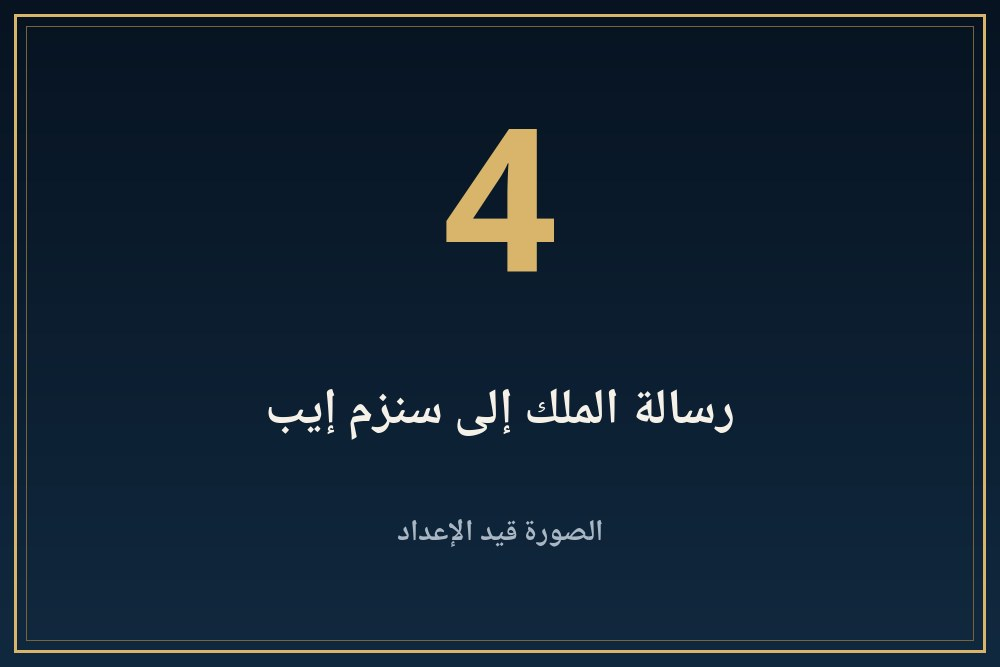
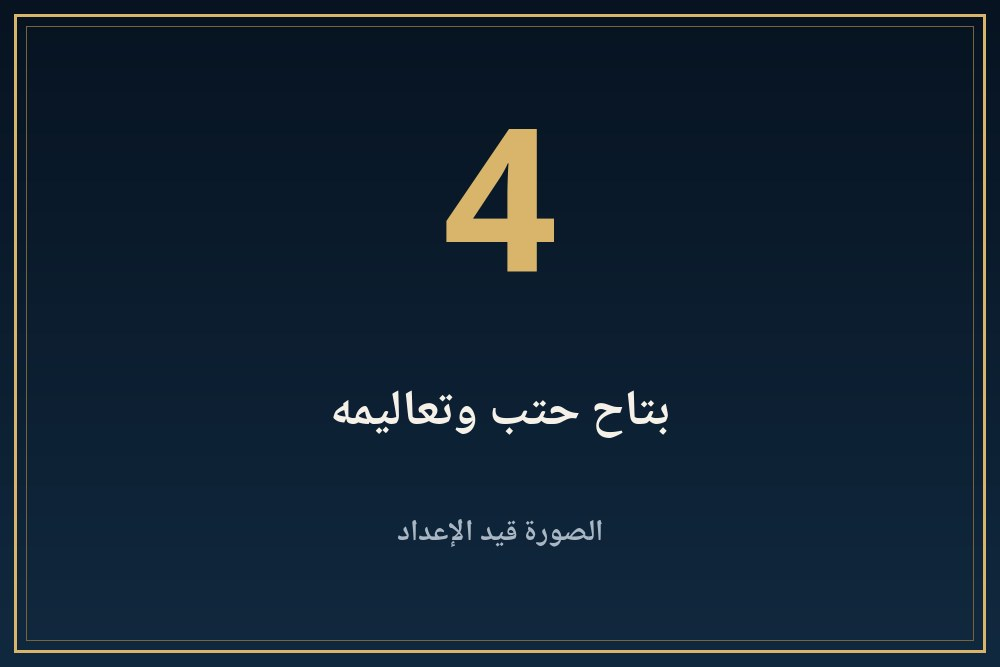
King 029: rebuilt from updated content (placeholders, audio pending)

Changed region(s): [[0.248, 0.5697, 0.744, 0.6597]]

diff --git a/kings/029-gd-ka-ra-esyzy/index.html b/kings/029-gd-ka-ra-esyzy/index.html
@@ -324,7 +324,7 @@ html[dir=ltr] #panav.open,#pash[dir=ltr] #panav.open{border-right:0!important;bo
 <div class="row"><span class="bdg v">موثّق</span><span>مذكور في مصدر مرقّم يمكن فتحه من قسم المراجع.</span></div>
 <div class="row"><span class="bdg d">محل خلاف</span><span>الصفحة نفسها تذكر أن الباحثين أو المصادر مختلفون فيه.</span></div>
 <div class="row"><span class="bdg u">لم يُتحقق منه</span><span>الصفحة تذكر أنه من مصدر واحد ولم يُتحقق منه في مصدر ثانٍ.</span></div></div>
-<div class="band" aria-hidden="true"></div><details class="acc k1" id="s1"><summary><img class="bnr" src="banners/b01.jpg?v=1" alt="" width="1000" height="667"><span class="n">1</span><span class="t">من هو؟</span><span class="ch"></span></summary><div class="body"><button class="lbtn" type="button" disabled aria-disabled="true" style="opacity:.55;cursor:default"><svg viewBox="0 0 24 24" fill="currentColor" aria-hidden="true"><path d="M7 4.5v15a1 1 0 001.5.86l12-7.5a1 1 0 000-1.72l-12-7.5A1 1 0 007 4.5z"/></svg><span>التعليق الصوتي قريبًا</span></button><p><span class="bdg v">موثّق</span> يقول سليم حسن (ج1 ص263-265) إن عهده «حافل».<sup><a href="#r1">[1]</a></sup></p></div></details><details class="acc k2" id="s2"><summary><img class="bnr" src="banners/b02.jpg?v=1" alt="" loading="lazy" width="1000" height="667"><span class="n">2</span><span class="t">بعثة ني عنخ خنتي خت</span><span class="ch"></span></summary><div class="body"><button class="lbtn" type="button" disabled aria-disabled="true" style="opacity:.55;cursor:default"><svg viewBox="0 0 24 24" fill="currentColor" aria-hidden="true"><path d="M7 4.5v15a1 1 0 001.5.86l12-7.5a1 1 0 000-1.72l-12-7.5A1 1 0 007 4.5z"/></svg><span>التعليق الصوتي قريبًا</span></button><p><span class="bdg v">موثّق</span> يذكر سليم حسن (ص263-265) بعثة ني عنخ خنتي خت في عهده.<sup><a href="#r1">[1]</a></sup></p></div></details><details class="acc k3" id="s3"><summary><img class="bnr" src="banners/b03.jpg?v=1" alt="" loading="lazy" width="1000" height="667"><span class="n">3</span><span class="t">بتاح حتب وتعاليمه</span><span class="ch"></span></summary><div class="body"><button class="lbtn" type="button" disabled aria-disabled="true" style="opacity:.55;cursor:default"><svg viewBox="0 0 24 24" fill="currentColor" aria-hidden="true"><path d="M7 4.5v15a1 1 0 001.5.86l12-7.5a1 1 0 000-1.72l-12-7.5A1 1 0 007 4.5z"/></svg><span>التعليق الصوتي قريبًا</span></button><p><span class="bdg v">موثّق</span> يقول سليم حسن (ص264) إن بتاح حتب كان مربي الملك وصاحب التعاليم المعروفة، ويترجم بدايتها.<sup><a href="#r1">[1]</a></sup></p></div></details><details class="acc k4" id="s4"><summary><img class="bnr" src="banners/b04.jpg?v=1" alt="" loading="lazy" width="1000" height="667"><span class="n">4</span><span class="t">رسالة الملك إلى سنزم إيب</span><span class="ch"></span></summary><div class="body"><button class="lbtn" type="button" disabled aria-disabled="true" style="opacity:.55;cursor:default"><svg viewBox="0 0 24 24" fill="currentColor" aria-hidden="true"><path d="M7 4.5v15a1 1 0 001.5.86l12-7.5a1 1 0 000-1.72l-12-7.5A1 1 0 007 4.5z"/></svg><span>التعليق الصوتي قريبًا</span></button><p><span class="bdg v">موثّق</span> يذكر سليم حسن (ص265) خطابا بخط الملك إلى سنزم إيب عن بحيرة الألف ذراع، وفيه عبارة «أدخلت الفرح على قلبي» مع تورية على اسمه.<sup><a href="#r1">[1]</a></sup></p></div></details><details class="acc k1" id="s5"><summary><img class="bnr" src="banners/b05.jpg?v=1" alt="" loading="lazy" width="1000" height="667"><span class="n">5</span><span class="t">ما لا نعرفه</span><span class="ch"></span></summary><div class="body"><button class="lbtn" type="button" disabled aria-disabled="true" style="opacity:.55;cursor:default"><svg viewBox="0 0 24 24" fill="currentColor" aria-hidden="true"><path d="M7 4.5v15a1 1 0 001.5.86l12-7.5a1 1 0 000-1.72l-12-7.5A1 1 0 007 4.5z"/></svg><span>التعليق الصوتي قريبًا</span></button><p><span class="bdg u">لم يُتحقق منه</span> لم نقرأ مدة حكمه ولا أبعاد هرمه ولا مصدرا مصريا ثانيا. وسنضيف ما نقرؤه.</p></div></details><details class="acc k4" id="refs"><summary><img class="bnr" src="banners/b06.jpg?v=1" alt="" loading="lazy" width="1000" height="667"><span class="n">6</span><span class="t">المراجع</span><span class="ch"></span></summary><div class="body"><button class="lbtn" type="button" disabled aria-disabled="true" style="opacity:.55;cursor:default"><svg viewBox="0 0 24 24" fill="currentColor" aria-hidden="true"><path d="M7 4.5v15a1 1 0 001.5.86l12-7.5a1 1 0 000-1.72l-12-7.5A1 1 0 007 4.5z"/></svg><span>التعليق الصوتي قريبًا</span></button><p><b>مصادر فتحتُ صفحاتها وقرأتها:</b></p><ol><li id="r1" dir="auto">سليم حسن، موسوعة مصر القديمة، ج1، الفصل 15: <a dir="ltr" style="display:inline-block;overflow-wrap:anywhere" href="https://archive.org/details/20201104_20201104_1559" rel="noopener" target="_blank">archive.org/details/20201104_20201104_1559</a></li></ol><div class="flag"><b>تنبيه:</b> عدد المصادر المصرية المفتوحة لهذه الصفحة واحد فقط. لا نضيف تفاصيل لم تثبت في مصدر فتحناه وقرأنا نصه، وحيث يختلف المصدران ننسب كل رأي لصاحبه.</div></div></details></article><aside class="abt" aria-label="عن هذه الصفحة"><h3>عن هذه الصفحة</h3><ul><li><b>المحتوى</b><span>جزء من موسوعة بر عنخ التعليمية. التواريخ والتفسيرات وفق المراجع المتاحة، وقد تختلف التفاصيل بين الدراسات.</span></li><li><b>الصور</b><span>صور هذه الصفحة أماكن حجز مؤقتة إلى أن تُضاف الصور الفنية.</span></li><li><b>الصوت</b><span>التعليق الصوتي قيد الإعداد.</span></li></ul></aside><a class="back" href="/kings/">← تصفح المزيد</a><a class="back" href="/">العودة إلى الرئيسية</a><dialog id="lb"><img alt=""><p></p><button type="button">إغلاق</button></dialog>
+<div class="band" aria-hidden="true"></div><details class="acc k1" id="s1"><summary><img class="bnr" src="banners/b01.jpg?v=1" alt="" width="1000" height="667"><span class="n">1</span><span class="t">من هو؟</span><span class="ch"></span></summary><div class="body"><button class="lbtn" type="button" disabled aria-disabled="true" style="opacity:.55;cursor:default"><svg viewBox="0 0 24 24" fill="currentColor" aria-hidden="true"><path d="M7 4.5v15a1 1 0 001.5.86l12-7.5a1 1 0 000-1.72l-12-7.5A1 1 0 007 4.5z"/></svg><span>التعليق الصوتي قريبًا</span></button><p><span class="bdg v">موثّق</span> يقول سليم حسن (ج1 ص263-265) إن عهده «حافل». ويضع جدول كتاب الميت (ص49) هرمه في جنوب سقارة، بعد أن كانت أهرام من قبله في أبو صير. ويستدرك كتاب الميت (ص34) أن وونيس «ربما كان ابن إسيسي».<sup><a href="#r1">[1]</a><a href="#r3">[3]</a></sup></p></div></details><details class="acc k2" id="s2"><summary><img class="bnr" src="banners/b02.jpg?v=1" alt="" loading="lazy" width="1000" height="667"><span class="n">2</span><span class="t">رسالة الملك إلى وزيره</span><span class="ch"></span></summary><div class="body"><button class="lbtn" type="button" disabled aria-disabled="true" style="opacity:.55;cursor:default"><svg viewBox="0 0 24 24" fill="currentColor" aria-hidden="true"><path d="M7 4.5v15a1 1 0 001.5.86l12-7.5a1 1 0 000-1.72l-12-7.5A1 1 0 007 4.5z"/></svg><span>التعليق الصوتي قريبًا</span></button><p><span class="bdg v">موثّق</span> يقول صالح (ص210) إن من أمتع رسائلهم رسالة كتبها الملك إسسي إلى وزيره شبس رع ردا على رسالة منه في أحد أعياده: «اطلعت جلالتي على الحديث الممتع الذي أرسلته إلى القصر... وسررت به لأنك تعرف كيف تتحدث بما يستحبه جلالتي...».<sup><a href="#r2">[2]</a></sup></p></div></details><details class="acc k3" id="s3"><summary><img class="bnr" src="banners/b03.jpg?v=1" alt="" loading="lazy" width="1000" height="667"><span class="n">3</span><span class="t">بحيرة الألف ذراع</span><span class="ch"></span></summary><div class="body"><button class="lbtn" type="button" disabled aria-disabled="true" style="opacity:.55;cursor:default"><svg viewBox="0 0 24 24" fill="currentColor" aria-hidden="true"><path d="M7 4.5v15a1 1 0 001.5.86l12-7.5a1 1 0 000-1.72l-12-7.5A1 1 0 007 4.5z"/></svg><span>التعليق الصوتي قريبًا</span></button><p><span class="bdg v">موثّق</span> يقول سليم حسن (ص265) إن خطابا بخط الملك إلى سنزم إيب عن بحيرة الألف ذراع فيه عبارة «أدخلت الفرح على قلبي» مع تورية على اسمه.<sup><a href="#r1">[1]</a></sup></p></div></details><details class="acc k4" id="s4"><summary><img class="bnr" src="banners/b04.jpg?v=1" alt="" loading="lazy" width="1000" height="667"><span class="n">4</span><span class="t">بتاح حتب وتعاليمه</span><span class="ch"></span></summary><div class="body"><button class="lbtn" type="button" disabled aria-disabled="true" style="opacity:.55;cursor:default"><svg viewBox="0 0 24 24" fill="currentColor" aria-hidden="true"><path d="M7 4.5v15a1 1 0 001.5.86l12-7.5a1 1 0 000-1.72l-12-7.5A1 1 0 007 4.5z"/></svg><span>التعليق الصوتي قريبًا</span></button><p><span class="bdg v">موثّق</span> يقول سليم حسن (ص264) إن بتاح حتب كان مربي الملك وصاحب التعاليم المعروفة، ويترجم بدايتها.<sup><a href="#r1">[1]</a></sup></p></div></details><details class="acc k1" id="s5"><summary><img class="bnr" src="banners/b05.jpg?v=1" alt="" loading="lazy" width="1000" height="667"><span class="n">5</span><span class="t">بعثة ني عنخ خنتي خت</span><span class="ch"></span></summary><div class="body"><button class="lbtn" type="button" disabled aria-disabled="true" style="opacity:.55;cursor:default"><svg viewBox="0 0 24 24" fill="currentColor" aria-hidden="true"><path d="M7 4.5v15a1 1 0 001.5.86l12-7.5a1 1 0 000-1.72l-12-7.5A1 1 0 007 4.5z"/></svg><span>التعليق الصوتي قريبًا</span></button><p><span class="bdg v">موثّق</span> يذكر سليم حسن (ص263-265) بعثة ني عنخ خنتي خت في عهده.<sup><a href="#r1">[1]</a></sup></p></div></details><details class="acc k2" id="s6"><summary><img class="bnr" src="banners/b06.jpg?v=1" alt="" loading="lazy" width="1000" height="667"><span class="n">6</span><span class="t">أرشيف أبو صير</span><span class="ch"></span></summary><div class="body"><button class="lbtn" type="button" disabled aria-disabled="true" style="opacity:.55;cursor:default"><svg viewBox="0 0 24 24" fill="currentColor" aria-hidden="true"><path d="M7 4.5v15a1 1 0 001.5.86l12-7.5a1 1 0 000-1.72l-12-7.5A1 1 0 007 4.5z"/></svg><span>التعليق الصوتي قريبًا</span></button><p><span class="bdg v">موثّق</span> يقول كتاب الميت (ص375-376) إن القطعة 117 من برديات أبو صير من سجلات المعبد الجنائزي في عهد جد كا رع إسيسي، وفيها جدول المناوبة لعيد سكر وسجلات توزيع الحبوب، وتغطي أكثر من عشر سنين. وتحمل عبارة «العام الثالث للإحصاء».<sup><a href="#r3">[3]</a></sup></p></div></details><details class="acc k3" id="s7"><summary><img class="bnr" src="banners/b07.jpg?v=1" alt="" loading="lazy" width="1000" height="667"><span class="n">7</span><span class="t">استمرار الإدارة</span><span class="ch"></span></summary><div class="body"><button class="lbtn" type="button" disabled aria-disabled="true" style="opacity:.55;cursor:default"><svg viewBox="0 0 24 24" fill="currentColor" aria-hidden="true"><path d="M7 4.5v15a1 1 0 001.5.86l12-7.5a1 1 0 000-1.72l-12-7.5A1 1 0 007 4.5z"/></svg><span>التعليق الصوتي قريبًا</span></button><p><span class="bdg v">موثّق</span> يقول كتاب الميت (ص34) إن الموظف كا جمني بدأ حياته في عهد إسيسي وتابعها في عهد ونيس وختمها محملا بالأوسمة في عهد تيتي، فلا انقطاع إداريا يدل على قطيعة بين الأسرتين.<sup><a href="#r3">[3]</a></sup></p></div></details><details class="acc k4" id="s8"><summary><img class="bnr" src="banners/b08.jpg?v=1" alt="" loading="lazy" width="1000" height="667"><span class="n">8</span><span class="t">هرمه</span><span class="ch"></span></summary><div class="body"><button class="lbtn" type="button" disabled aria-disabled="true" style="opacity:.55;cursor:default"><svg viewBox="0 0 24 24" fill="currentColor" aria-hidden="true"><path d="M7 4.5v15a1 1 0 001.5.86l12-7.5a1 1 0 000-1.72l-12-7.5A1 1 0 007 4.5z"/></svg><span>التعليق الصوتي قريبًا</span></button><p><span class="bdg v">موثّق</span> يقول كتاب الميت (ص49) إن هرمه في جنوب سقارة، وأعمدته من الجرانيت على شكل نخيل (ص61).<sup><a href="#r3">[3]</a></sup></p></div></details><details class="acc k1" id="s9"><summary><img class="bnr" src="banners/b09.jpg?v=1" alt="" loading="lazy" width="1000" height="667"><span class="n">9</span><span class="t">ما لا نعرفه</span><span class="ch"></span></summary><div class="body"><button class="lbtn" type="button" disabled aria-disabled="true" style="opacity:.55;cursor:default"><svg viewBox="0 0 24 24" fill="currentColor" aria-hidden="true"><path d="M7 4.5v15a1 1 0 001.5.86l12-7.5a1 1 0 000-1.72l-12-7.5A1 1 0 007 4.5z"/></svg><span>التعليق الصوتي قريبًا</span></button><p><span class="bdg u">لم يُتحقق منه</span> لا نعرف مدة حكمه بدقة: رقمها مشوه في قائمة نور الدين (ص714) ولم نعتمده. ولم نقرأ تفاصيل هرمه.</p></div></details><details class="acc k4" id="refs"><summary><img class="bnr" src="banners/b10.jpg?v=1" alt="" loading="lazy" width="1000" height="667"><span class="n">10</span><span class="t">المراجع</span><span class="ch"></span></summary><div class="body"><button class="lbtn" type="button" disabled aria-disabled="true" style="opacity:.55;cursor:default"><svg viewBox="0 0 24 24" fill="currentColor" aria-hidden="true"><path d="M7 4.5v15a1 1 0 001.5.86l12-7.5a1 1 0 000-1.72l-12-7.5A1 1 0 007 4.5z"/></svg><span>التعليق الصوتي قريبًا</span></button><p><b>مصادر فتحتُ صفحاتها وقرأتها:</b></p><ol><li id="r1" dir="auto">سليم حسن، موسوعة مصر القديمة، ج1، الفصل 15: <a dir="ltr" style="display:inline-block;overflow-wrap:anywhere" href="https://archive.org/details/20201104_20201104_1559" rel="noopener" target="_blank">archive.org/details/20201104_20201104_1559</a></li><li id="r2" dir="auto">عبد العزيز صالح، الشرق الأدنى القديم ج1 (مصر والعراق)، أرقام صفحات PDF: <a dir="ltr" style="display:inline-block;overflow-wrap:anywhere" href="https://archive.org/details/20210510_20210510_0037" rel="noopener" target="_blank">archive.org/details/20210510_20210510_0037</a></li><li id="r3" dir="auto">The Metropolitan Museum of Art, Egyptian Art in the Age of the Pyramids, 1999 (فصول كوزلوف وأرنولد وزيجلر وجريمال): <a dir="ltr" style="display:inline-block;overflow-wrap:anywhere" href="https://www.metmuseum.org/met-publications/egyptian-art-in-the-age-of-the-pyramids" rel="noopener" target="_blank">www.metmuseum.org/met-publications/egyptian-art-in-the-age-of-the-pyramids</a></li></ol></div></details></article><aside class="abt" aria-label="عن هذه الصفحة"><h3>عن هذه الصفحة</h3><ul><li><b>المحتوى</b><span>جزء من موسوعة بر عنخ التعليمية. التواريخ والتفسيرات وفق المراجع المتاحة، وقد تختلف التفاصيل بين الدراسات.</span></li><li><b>الصور</b><span>صور هذه الصفحة أماكن حجز مؤقتة إلى أن تُضاف الصور الفنية.</span></li><li><b>الصوت</b><span>التعليق الصوتي قيد الإعداد.</span></li></ul></aside><a class="back" href="/kings/">← تصفح المزيد</a><a class="back" href="/">العودة إلى الرئيسية</a><dialog id="lb"><img alt=""><p></p><button type="button">إغلاق</button></dialog>
 <script>(function(){var A=function(){return document.querySelectorAll("details.acc")};
 document.getElementById("all").onclick=function(){A().forEach(function(d){d.open=true})};
 document.getElementById("none").onclick=function(){A().forEach(function(d){d.open=false})};
@@ -332,7 +332,7 @@ function go(h){var e=h&&document.getElementById(h.slice(1));if(!e)return;var d=e
 document.addEventListener("click",function(e){var a=e.target.closest&&e.target.closest('a[href^="#"]');if(a){go(a.getAttribute("href"))}});
 if(location.hash)go(location.hash);
 var d=document.getElementById("lb");if(!d||!d.showModal)return;var im=d.querySelector("img"),p=d.querySelector("p");document.addEventListener("click",function(e){var t=e.target;if(t.tagName=="IMG"&&t.closest(".fig")){im.src=t.src;im.alt=t.alt;p.textContent=t.closest("figure").querySelector("figcaption").innerText;d.showModal()}else if(t==d||t.tagName=="BUTTON"&&d.contains(t)){d.close()}})})();</script><div class="pbar" id="pbar"></div><div class="pl" id="pl" role="region" aria-label="مشغّل الاستماع"><div class="in"><button class="pp" id="pp" type="button" aria-label="تشغيل"><svg viewBox="0 0 24 24" fill="currentColor" aria-hidden="true"><path d="M7 4.5v15a1 1 0 001.5.86l12-7.5a1 1 0 000-1.72l-12-7.5A1 1 0 007 4.5z"/></svg></button><div class="mid"><div class="ttl"><span id="tt">استماع</span> <i>صوت اصطناعي</i></div><input id="sk" type="range" min="0" max="1000" value="0" aria-label="موضع التشغيل"><div class="tm"><span id="cur">0:00</span><span id="dur">0:00</span></div></div><div class="ex"><button id="bk" type="button" aria-label="رجوع 10 ثوانٍ">−10</button><button id="fw" type="button" aria-label="تقدم 10 ثوانٍ">+10</button><button id="sp" class="sp" type="button" aria-label="سرعة التشغيل">1×</button><button id="cl" type="button" aria-label="إغلاق المشغّل">✕</button></div><p class="err" id="er" role="alert" hidden>تعذر تحميل الملف الصوتي. حاول لاحقًا.</p></div><div aria-live="polite" id="st" style="position:absolute;left:-9999px"></div><audio id="au" preload="none"></audio></div></main><script>(function(){
-var S={"s1": ["من هو؟", 1], "s2": ["بعثة ني عنخ خنتي خت", 1], "s3": ["بتاح حتب وتعاليمه", 1], "s4": ["رسالة الملك إلى سنزم إيب", 1], "s5": ["ما لا نعرفه", 1], "refs": ["المراجع", 1]},$=function(i){return document.getElementById(i)},au=$("au"),pl=$("pl"),pp=$("pp"),sk=$("sk"),P="<svg viewBox=\"0 0 24 24\" fill=\"currentColor\" aria-hidden=\"true\"><path d=\"M7 4.5v15a1 1 0 001.5.86l12-7.5a1 1 0 000-1.72l-12-7.5A1 1 0 007 4.5z\"/></svg>",Q="<svg viewBox=\"0 0 24 24\" fill=\"currentColor\" aria-hidden=\"true\"><rect x=\"5.5\" y=\"4\" width=\"4.5\" height=\"16\" rx=\"1.2\"/><rect x=\"14\" y=\"4\" width=\"4.5\" height=\"16\" rx=\"1.2\"/></svg>",cur=null,part=1,seeking=false;
+var S={"s1": ["من هو؟", 1], "s2": ["رسالة الملك إلى وزيره", 1], "s3": ["بحيرة الألف ذراع", 1], "s4": ["بتاح حتب وتعاليمه", 1], "s5": ["بعثة ني عنخ خنتي خت", 1], "s6": ["أرشيف أبو صير", 1], "s7": ["استمرار الإدارة", 1], "s8": ["هرمه", 1], "s9": ["ما لا نعرفه", 1], "refs": ["المراجع", 1]},$=function(i){return document.getElementById(i)},au=$("au"),pl=$("pl"),pp=$("pp"),sk=$("sk"),P="<svg viewBox=\"0 0 24 24\" fill=\"currentColor\" aria-hidden=\"true\"><path d=\"M7 4.5v15a1 1 0 001.5.86l12-7.5a1 1 0 000-1.72l-12-7.5A1 1 0 007 4.5z\"/></svg>",Q="<svg viewBox=\"0 0 24 24\" fill=\"currentColor\" aria-hidden=\"true\"><rect x=\"5.5\" y=\"4\" width=\"4.5\" height=\"16\" rx=\"1.2\"/><rect x=\"14\" y=\"4\" width=\"4.5\" height=\"16\" rx=\"1.2\"/></svg>",cur=null,part=1,seeking=false;
 function fmt(t){if(!isFinite(t))return"0:00";var m=Math.floor(t/60),s=Math.floor(t%60);return m+":"+(s<10?"0":"")+s}
 function btns(){document.querySelectorAll(".lbtn").forEach(function(b){var on=b.dataset.s===cur&&!au.paused;b.classList.toggle("on",on);b.querySelector("span").textContent=on?"إيقاف مؤقت":(b.dataset.s===cur&&au.currentTime>1?"أكمل الاستماع":"استمع لهذا القسم");b.querySelector("svg").outerHTML=on?Q:P})}
 function ui(){var pa=au.paused;pp.innerHTML=pa?P:Q;pp.setAttribute("aria-label",pa?"تشغيل":"إيقاف مؤقت");btns()}
